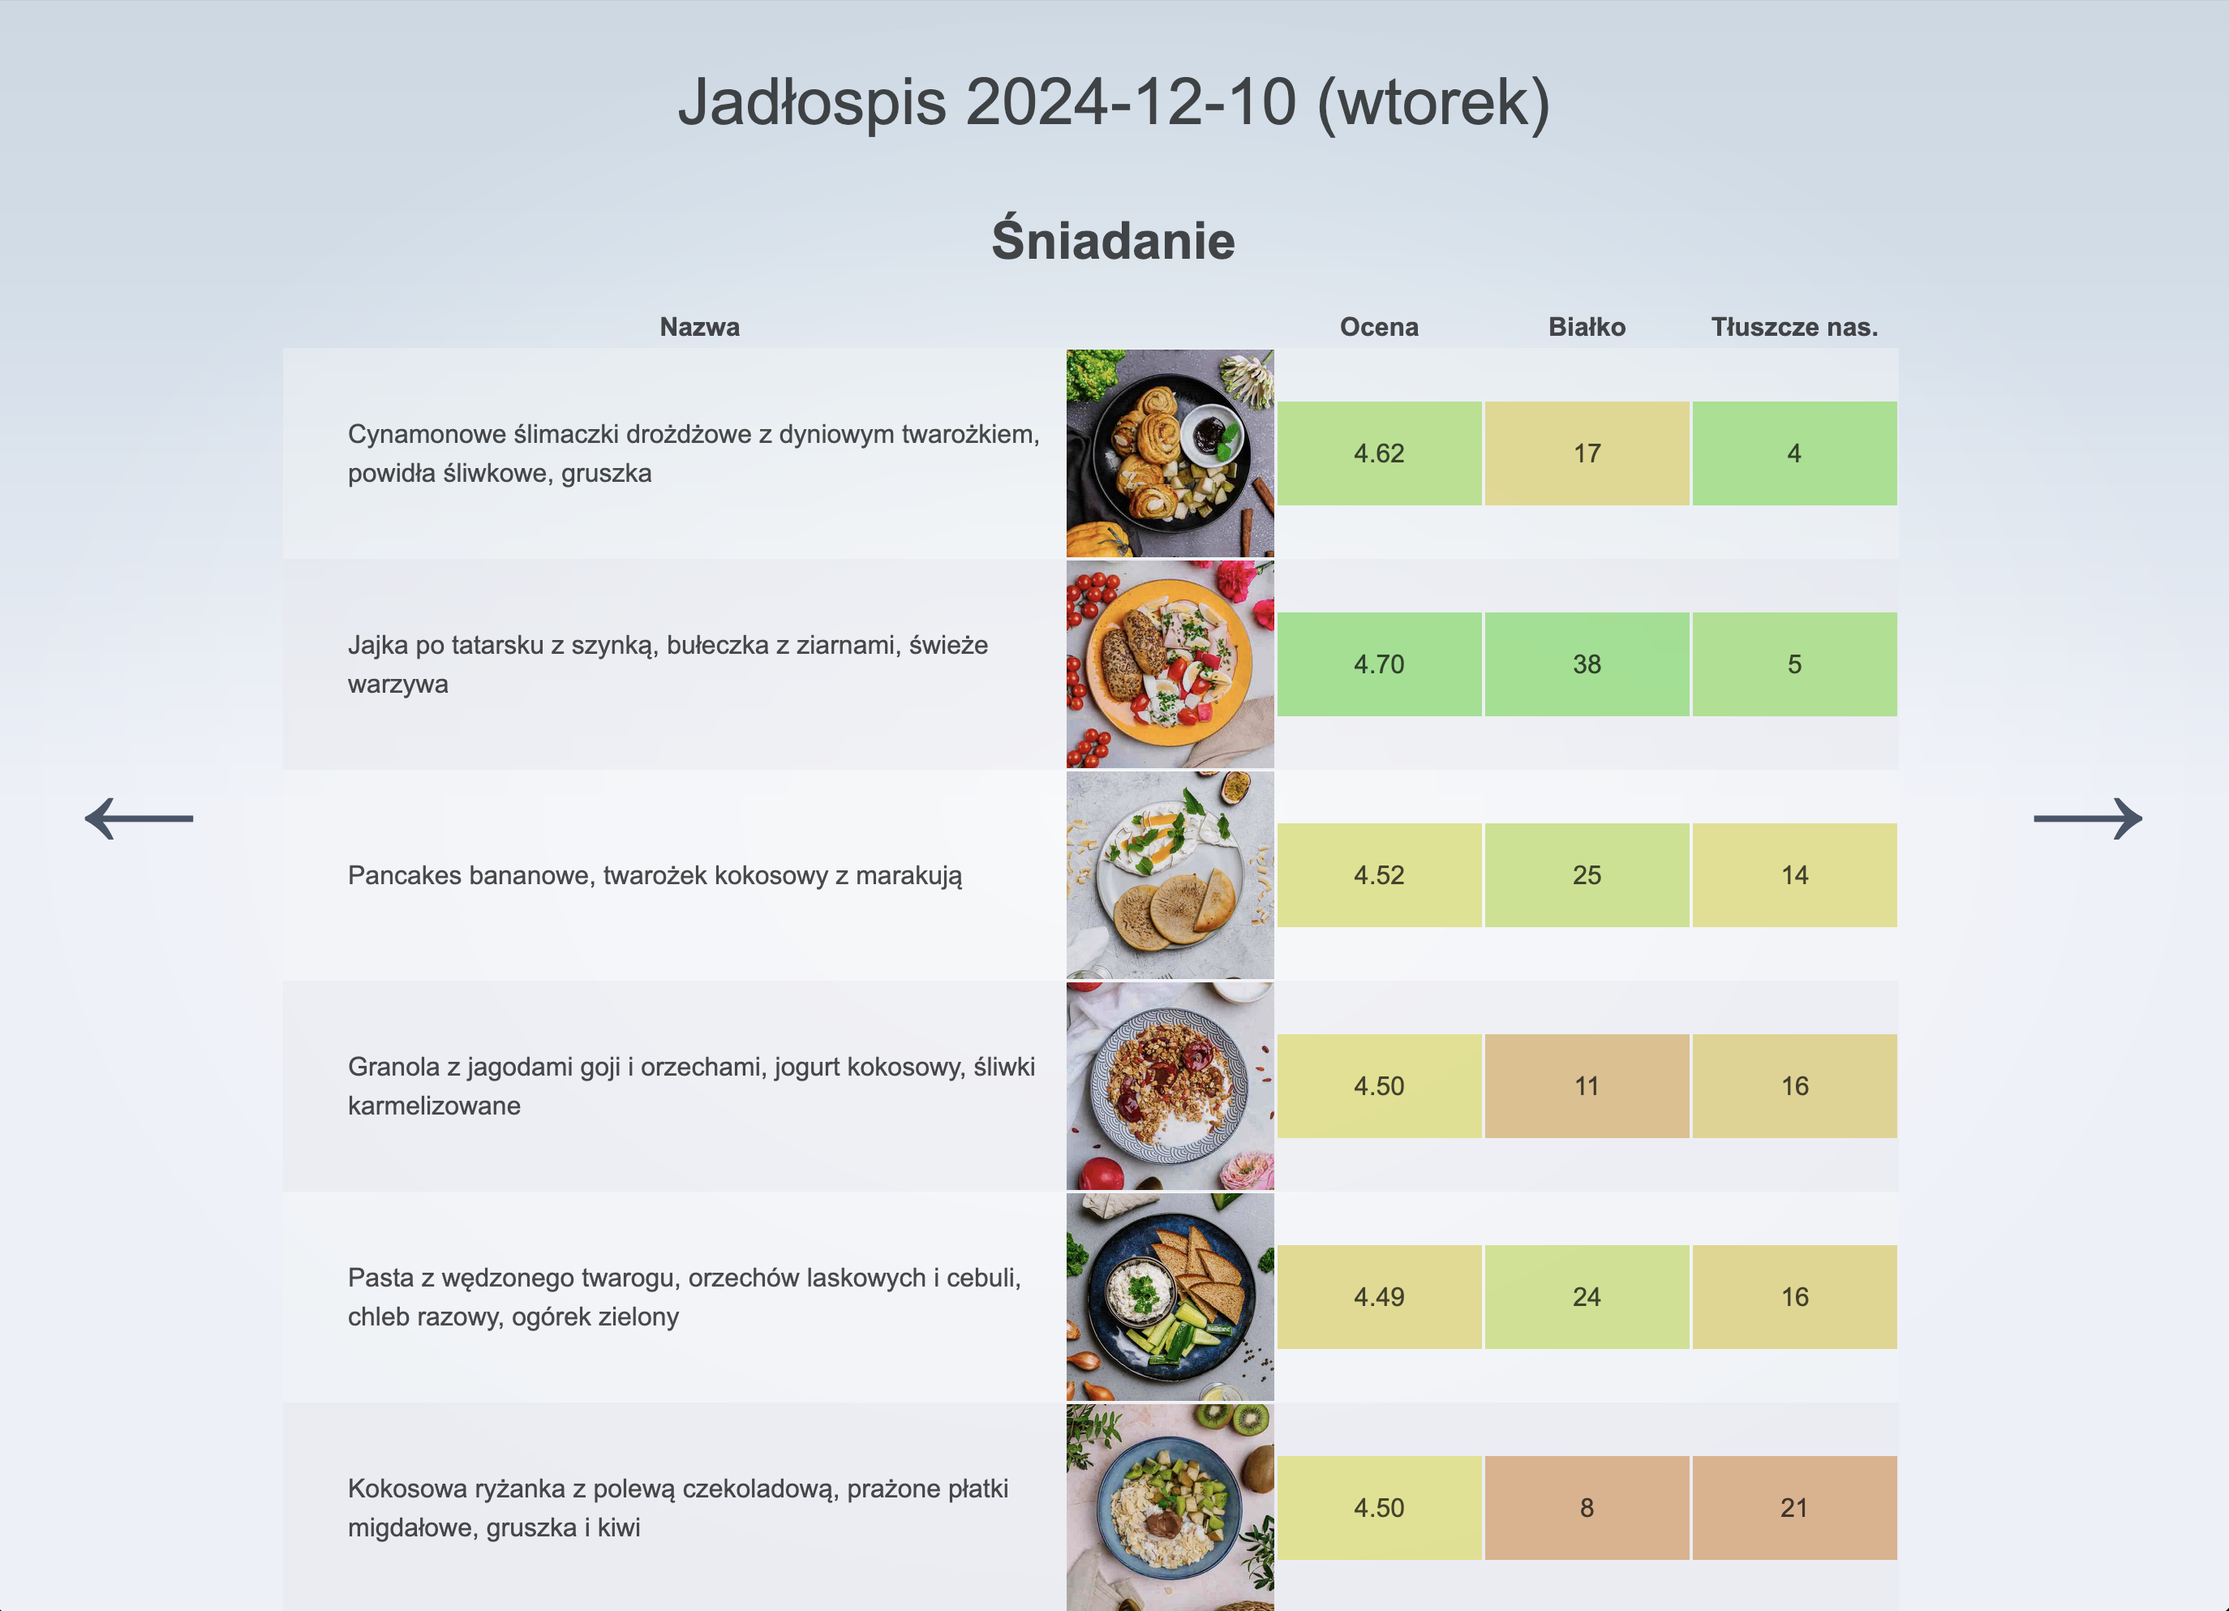
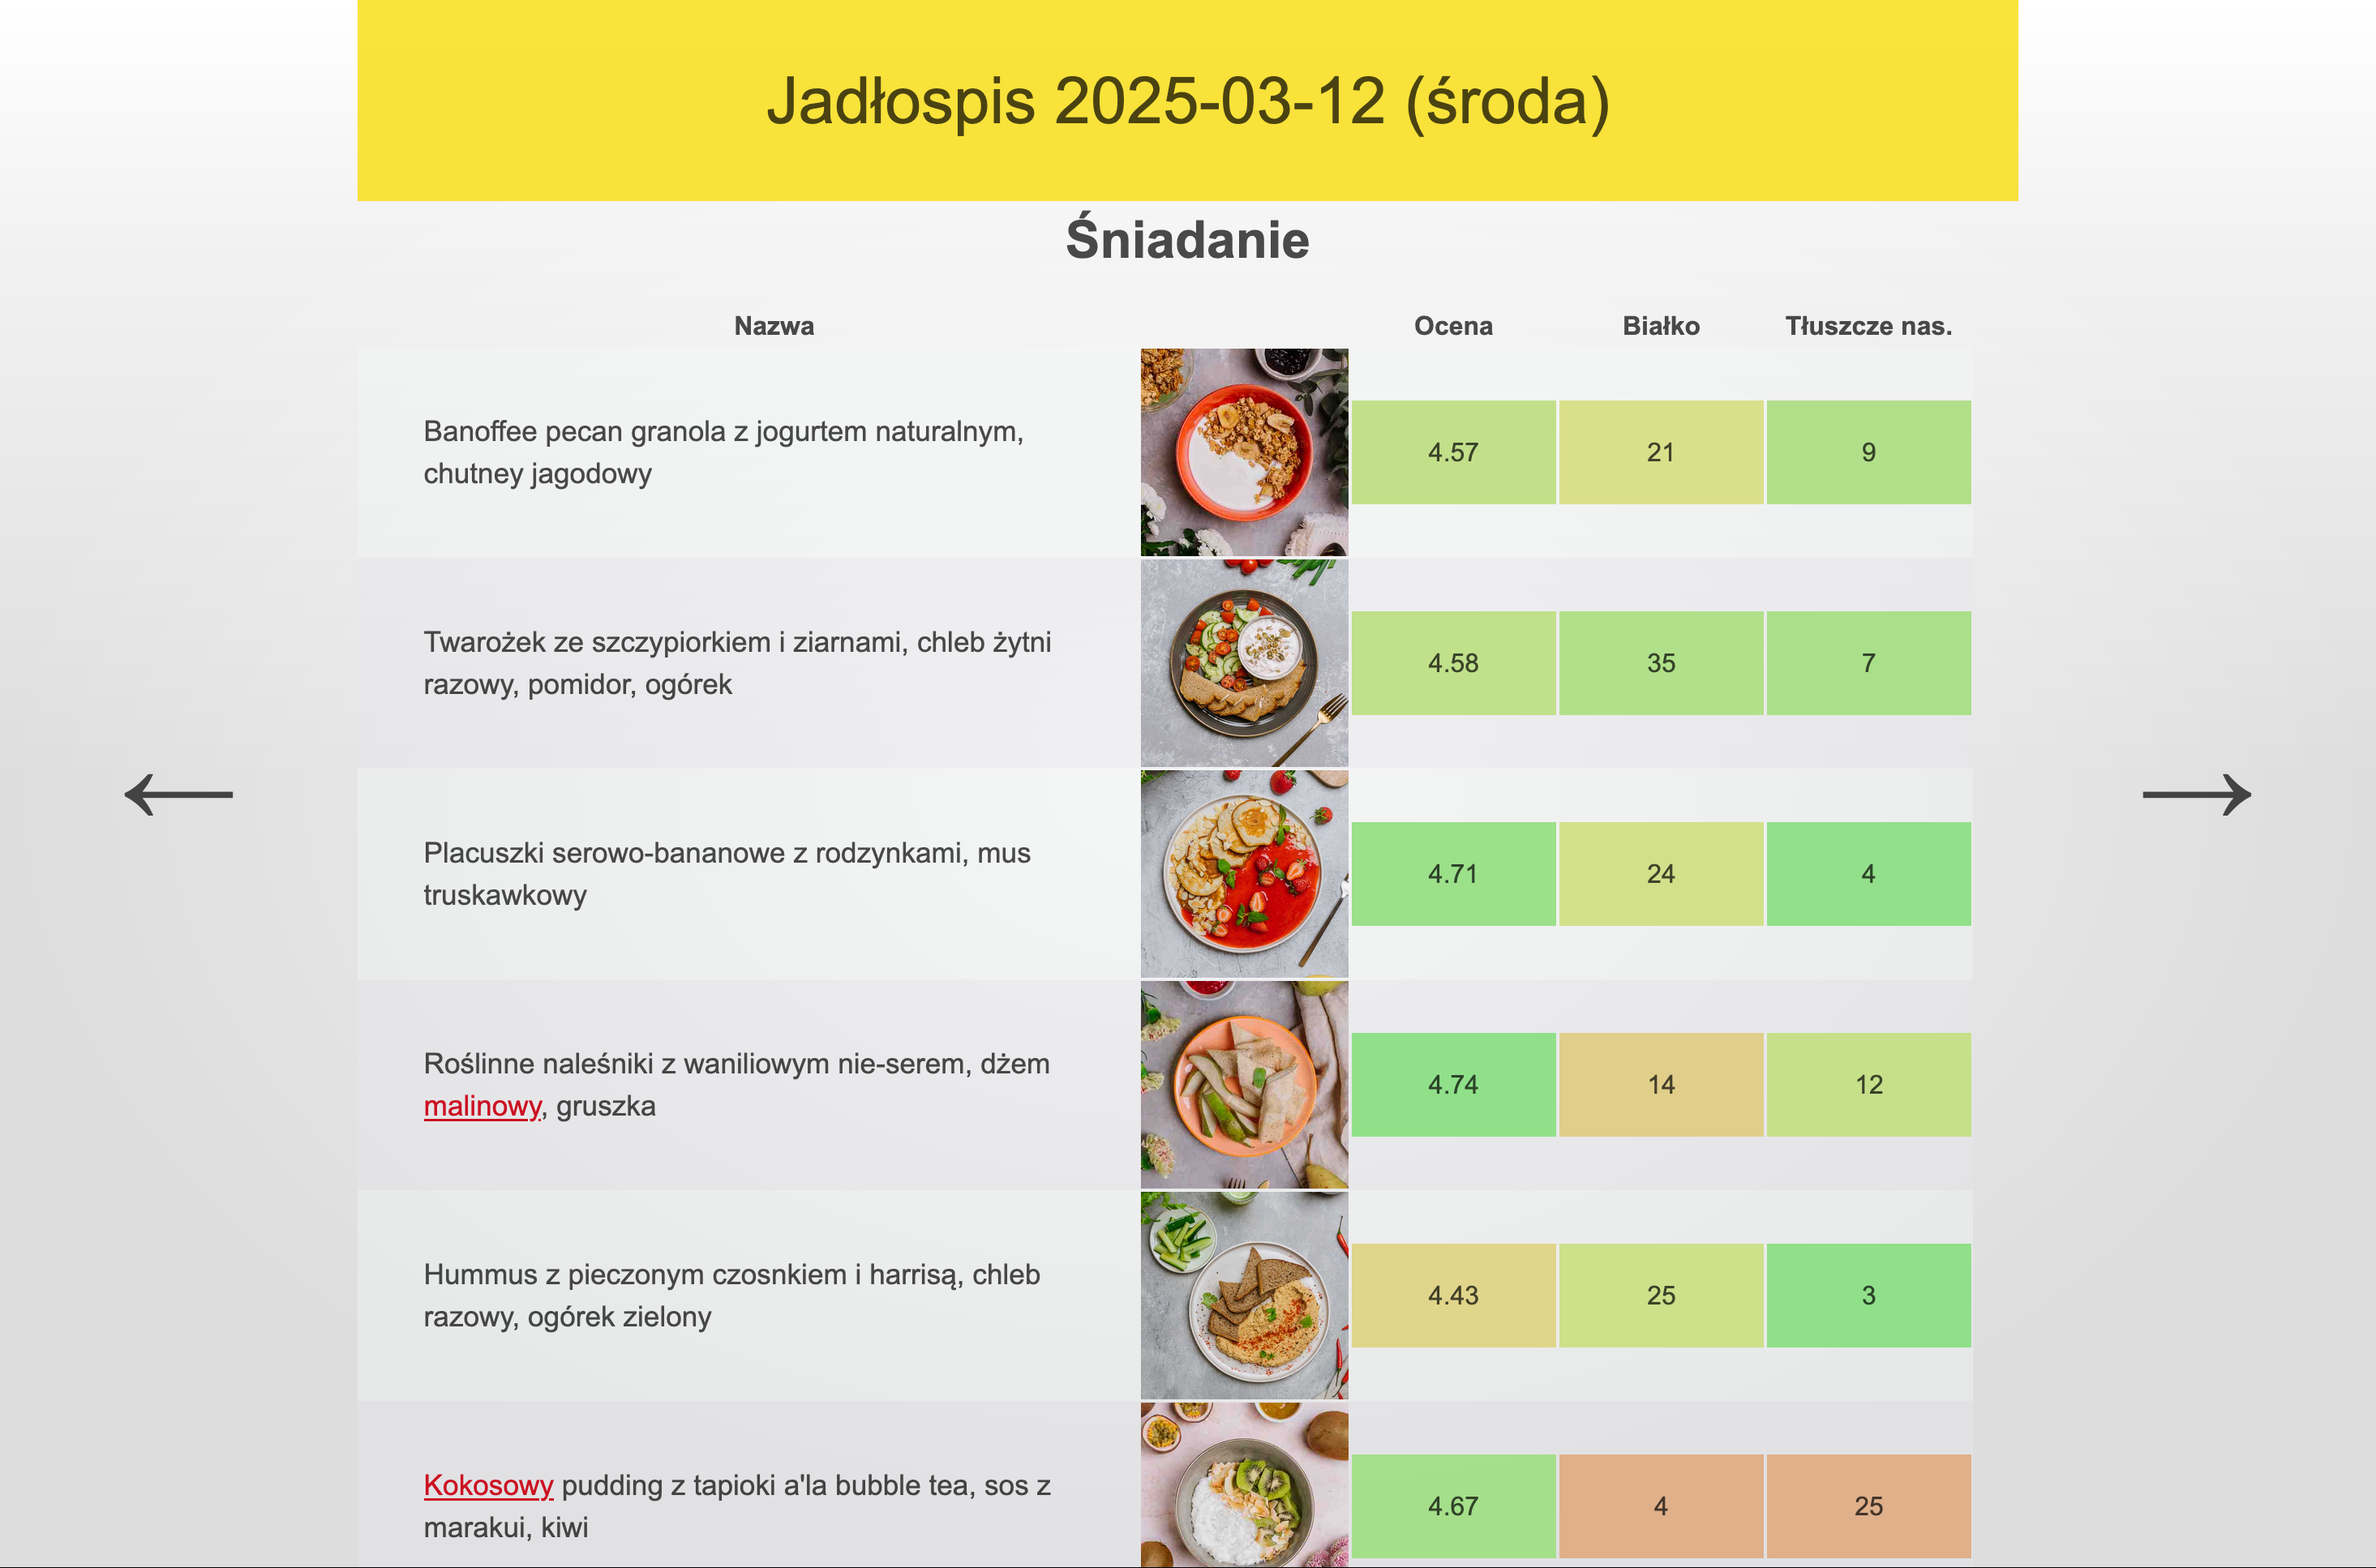
Update the layout and color scheme to make it more yellow

diff --git a/src/routes/ntfy/[date]/+page.svelte b/src/routes/ntfy/[date]/+page.svelte
@@ -28,12 +28,12 @@
 </svelte:head>
 
 <a
-  class="flex justify-center items-center w-full h-full hover:bg-lime-200/50 hover:no-underline"
+  class="flex justify-center items-center w-full h-full hover:bg-yellow-200/60 hover:no-underline"
   class:cursor-not-allowed={loading}
   href={data.prevDayLink}
   onclick={switchDay}
 >
-  <div class="text-7xl text-slate-600">
+  <div class="text-7xl">
     ←
   </div>
 </a>
@@ -122,20 +122,21 @@
 </div>
 
 <a
-  class="flex justify-center items-center w-full h-full hover:bg-lime-200/50 hover:no-underline"
+  class="flex justify-center items-center w-full h-full hover:bg-yellow-200/60 hover:no-underline"
   class:cursor-not-allowed={loading}
   href={data.nextDayLink}
   onclick={switchDay}
 >
-  <div class="text-7xl text-slate-600">
+  <div class="text-7xl">
     →
   </div>
 </a>
 
 <style>
   h1 {
+    background: rgba(250, 222, 25, .85);
     font-size: 2.5rem;
-    margin: 2rem 0;
+    padding: 2rem 0;
   }
 
   h2 {
@@ -190,8 +191,9 @@
     }
 
     .meal-name {
+      font-size: 1.1rem;
       text-align: left;
-      max-width: 450px;
+      width: 450px;
       padding: 0 .5em;
     }
 

diff --git a/src/app.css b/src/app.css
@@ -7,11 +7,10 @@
 	--font-body: Arial, -apple-system, BlinkMacSystemFont, 'Segoe UI', Roboto, Oxygen, Ubuntu,
 		Cantarell, 'Open Sans', 'Helvetica Neue', sans-serif;
 	--font-mono: 'Fira Mono', monospace;
-	--color-bg-0: rgb(202, 216, 228);
-	--color-bg-1: hsl(209, 36%, 86%);
-	--color-bg-2: hsl(224, 44%, 95%);
-	--color-theme-1: #ff3e00;
-	--color-theme-2: #4075a6;
+	--color-bg-0: #fff;
+	--color-bg-1: #f2f2f2;
+	--color-bg-2: #ddd;
+	--color-theme-1: #fade19;
 	--color-text: rgba(0, 0, 0, 0.7);
 	--column-width: 42rem;
 	--column-margin-top: 4rem;
@@ -44,7 +43,7 @@ p {
 }
 
 a {
-	color: var(--color-theme-1);
+	color: var(--color-slate-600);
 	text-decoration: none;
 }
 
@@ -111,8 +110,10 @@ button:focus:not(:focus-visible) {
 
 .greenlisted {
   color: #2a2;
+  text-decoration: underline;
 }
 
 .redlisted {
   color: #c12;
+  text-decoration: underline;
 }
